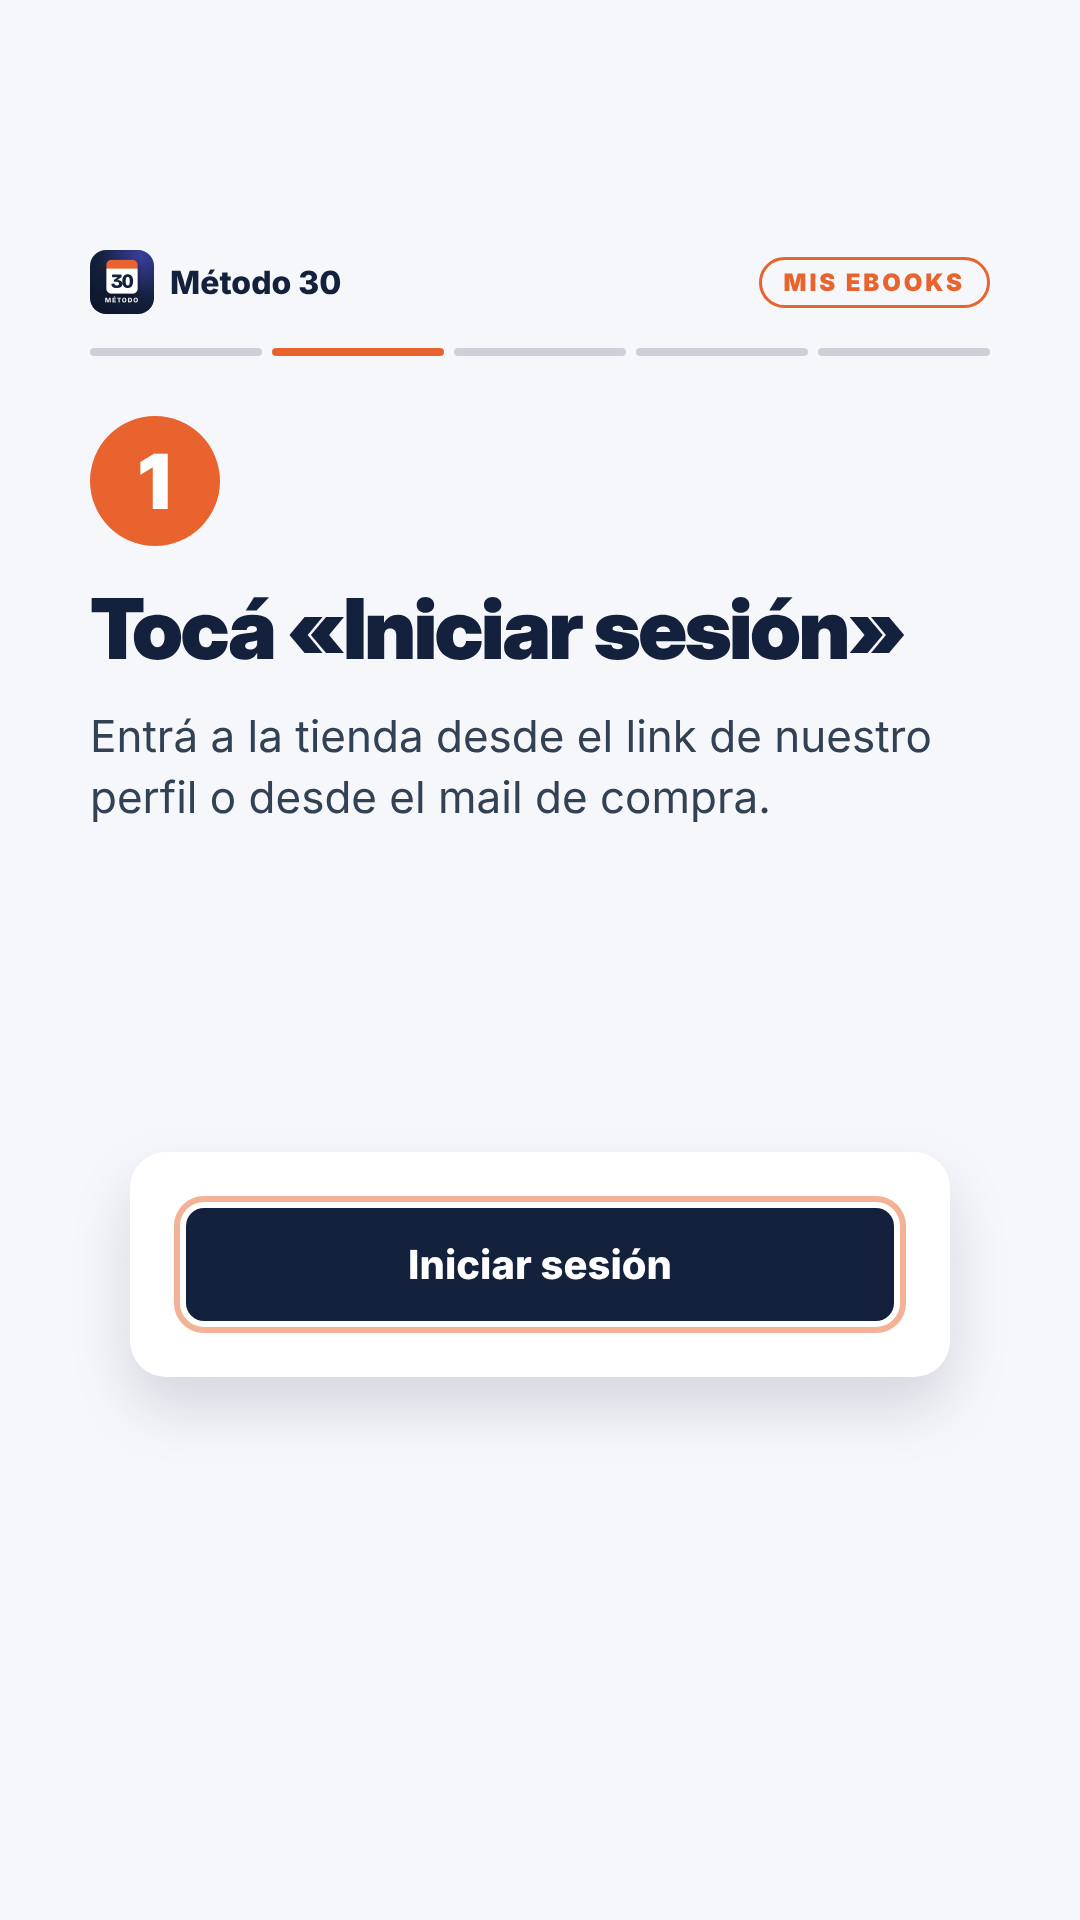
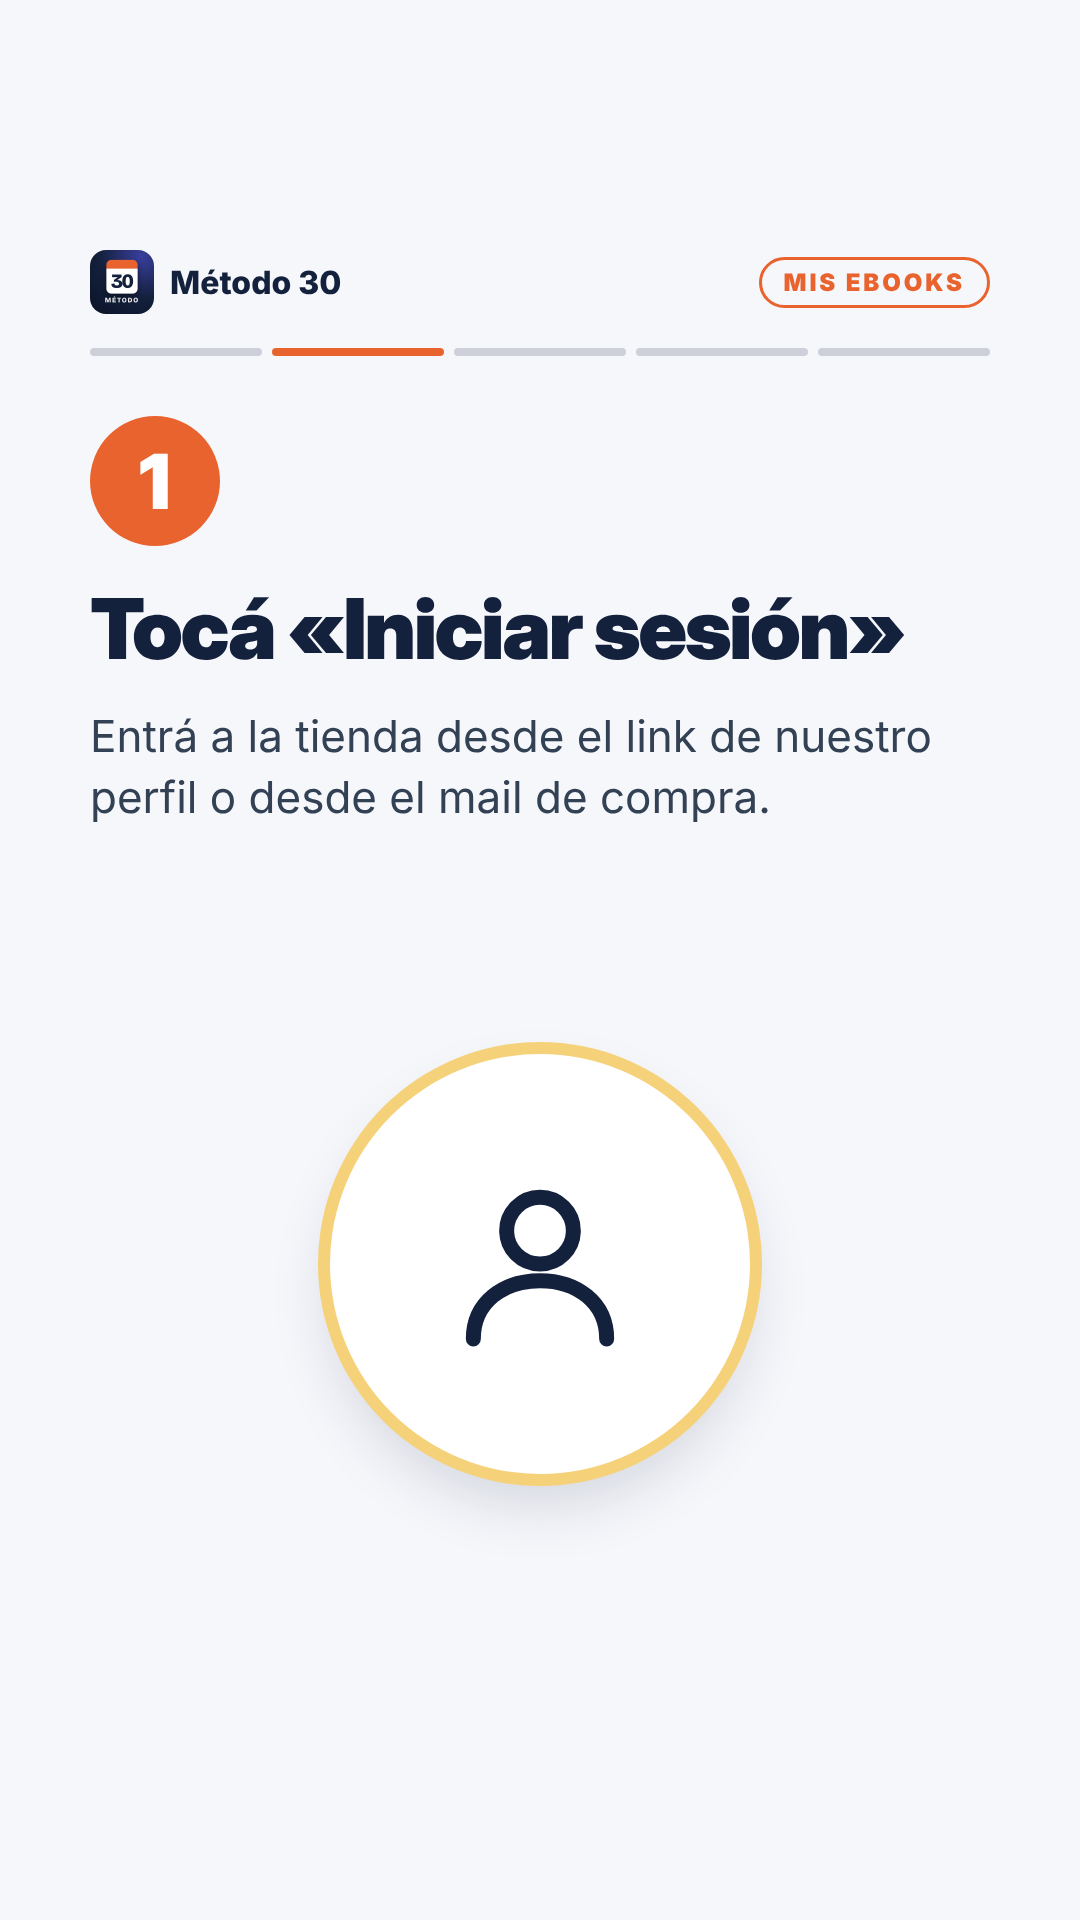
Instagram stories: remove all button-like elements
Claude-Session: https://claude.ai/code/session_01DqVqUeAmWCQGLWKBngAQ89

Changed region(s): [[0.1528, 0.5625, 0.8556, 0.7812], [0.3972, 0.5312, 0.6111, 0.5625], [0.3361, 0.5625, 0.3972, 0.5938]]

diff --git a/instagram/build_historias.py b/instagram/build_historias.py
@@ -52,7 +52,7 @@ add(F, "5", "link", tag="Cómo funciona", title="Empezá hoy",
 F = "2-resenas"
 add(F, "1-pedi-resenas", "ask", tag="Reseñas", title="¿Ya leíste<br><em>Método 30</em>?",
     sub="Contanos cómo te fue con tu búsqueda. Con tu permiso, compartimos tu mensaje acá.",
-    cta="Mandanos un mensaje", note="o escribinos a somosmetodo30@gmail.com")
+    cta="Escribinos por mensaje directo", note="o a somosmetodo30@gmail.com")
 add(F, "2-como-contarnos", "list", tag="Reseñas", title="Contanos<br>tu experiencia",
     items=["Aplicá el plan en tu búsqueda", "Mandanos un mensaje directo contando cómo te fue",
            "Si querés, sumá una captura de tu CV o tu LinkedIn nuevo", "Con tu permiso, lo compartimos en esta destacada"],
@@ -74,10 +74,10 @@ add(F, "1", "cover", tag="Mis ebooks", title="Cómo entrar a<br><em>Mis ebooks</
     pic=f'<img class="phone" src="{CEL}">')
 add(F, "2", "step", tag="Mis ebooks", n="1", title="Tocá «Iniciar sesión»",
     text="Entrá a la tienda desde el link de nuestro perfil o desde el mail de compra.",
-    pic='<div class="ui"><div class="ui-btn">Iniciar sesión</div></div>')
+    pic='<div class="ic"><svg viewBox="0 0 24 24"><circle cx="12" cy="8" r="4"/><path d="M4 21c0-4.4 3.6-7 8-7s8 2.6 8 7"/></svg></div>')
 add(F, "3", "step", tag="Mis ebooks", n="2", title="Poné el mismo mail de la compra",
     text="Tiene que ser el mail que usaste para pagar: así se habilitan tus ebooks.",
-    pic='<div class="ui"><div class="ui-lbl">Correo electrónico</div><div class="ui-in">tunombre@gmail.com</div><div class="ui-btn">Continuar</div></div>')
+    pic='<div class="ic"><svg viewBox="0 0 24 24"><rect x="3" y="5" width="18" height="14" rx="2.5"/><path d="m4 7 8 6 8-6"/></svg></div>')
 add(F, "4", "step", tag="Mis ebooks", n="3", title="Escribí el código de 6 dígitos",
     text="Te llega por mail en segundos. Si no lo ves, revisá la carpeta de spam.",
     pic='<div class="ui"><div class="ui-lbl">Código</div><div class="code">' + "".join(f"<span>{c}</span>" for c in "······") + "</div></div>")
@@ -120,7 +120,7 @@ for i, (q, a) in enumerate(QA, 1):
     add(F, str(i), "qa", tag="Preguntas", q=q, a=a)
 add(F, str(len(QA) + 1), "ask", tag="Preguntas", title="¿Tenés otra<br>pregunta?",
     sub="Mandanos un mensaje y te respondemos en una historia.",
-    cta="Mandanos un mensaje", note="o escribinos a somosmetodo30@gmail.com")
+    cta="Escribinos por mensaje directo", note="o a somosmetodo30@gmail.com")
 
 
 # ---------- RENDER ----------
@@ -130,7 +130,7 @@ PLANE = '<svg viewBox="0 0 24 24"><path d="M21 3 10 14M21 3l-7 18-4-7-7-4 18-7Z"
 
 def cta(label, note, small, icon=ARROW):
     sm = f"<small>{small}</small>" if small else ""
-    return f'<div class="cta"><div class="btn"><span>{label}</span>{icon}</div><p>{note}{sm}</p></div>'
+    return f'<div class="cta"><i></i><b>{label}</b><p>{note}{sm}</p></div>'
 
 
 def head(h, i, total):
@@ -148,7 +148,7 @@ def body(h):
                 f'<p>{h["text"]}</p><div class="pic">{h["pic"]}</div></div>')
     if k == "link":
         return (f'<div class="cover center"><img class="tp" src="{COMBO}"><h1>{h["title"]}</h1><p class="sub">{h["sub"]}</p>' +
-                cta("Ver los ebooks", "Tocá el link de nuestro perfil", LINK) + "</div>")
+                cta("Link en nuestro perfil", "", LINK) + "</div>")
     if k == "ask":
         return (f'<div class="cover center"><img class="av" src="{ICON}"><h1>{h["title"]}</h1><p class="sub">{h["sub"]}</p>'
                 + cta(h["cta"], h["note"], "", icon=PLANE) + "</div>")
@@ -215,15 +215,16 @@ h2{font-size:84px;font-weight:900;line-height:1.02;margin-bottom:34px}
 .ms{font-weight:800;font-size:42px;margin:28px 0}
 .mf{display:flex;align-items:center;gap:20px;border:2px solid #E2E8F0;border-radius:20px;padding:22px;margin-top:16px;font-size:30px}
 .mf span{background:#E8632E;color:#fff;font-weight:800;font-size:24px;border-radius:10px;padding:8px 12px}
+.ic{width:420px;height:420px;border-radius:50%;background:#fff;box-shadow:0 0 0 12px #F5D27A,0 30px 60px rgba(20,33,61,.15);display:flex;align-items:center;justify-content:center}
+.ic svg{width:200px;height:200px;fill:none;stroke:#14213D;stroke-width:1.8;stroke-linecap:round;stroke-linejoin:round}
 .ui{width:820px;background:#fff;border-radius:36px;padding:56px;box-shadow:0 30px 60px rgba(20,33,61,.15)}
 .ui-lbl{font-size:30px;color:#64748B;margin-bottom:14px}
 .ui-in{border:3px solid #14213D;border-radius:18px;padding:28px;font-size:38px;color:#94A3B8;margin-bottom:30px}
-.ui-btn{background:#14213D;color:#fff;border-radius:18px;padding:32px;text-align:center;font-weight:800;font-size:40px;outline:6px solid rgba(232,99,46,.5);outline-offset:6px}
 .code{display:flex;gap:14px}.code span{flex:1;height:130px;border:3px solid #14213D;border-radius:18px;font:900 70px/120px Inter;text-align:center;color:#E8632E}
 .cta{margin-top:80px;width:100%;display:flex;flex-direction:column;align-items:center}
-.btn{display:flex;align-items:center;justify-content:center;gap:24px;width:100%;background:#E8632E;color:#fff;border-radius:999px;padding:44px 50px;font:800 50px/1 Inter;box-shadow:0 24px 50px rgba(232,99,46,.38)}
-.btn svg{width:56px;height:56px;flex:none}
-.cta p{margin-top:36px;font-size:36px;opacity:.8;line-height:1.4}
+.cta i{display:block;width:120px;height:6px;border-radius:6px;background:#E8632E;margin-bottom:44px}
+.cta b{font:900 60px/1.15 "Inter Display";letter-spacing:-.02em;color:#F5D27A}
+.cta p{margin-top:20px;font-size:36px;opacity:.8;line-height:1.4}
 .cta small{display:block;font-size:32px;color:#F5D27A;font-weight:600;margin-top:6px;opacity:1}
 .av{width:180px;height:180px;border-radius:44px;margin-bottom:60px;box-shadow:0 0 0 8px rgba(245,210,122,.6),0 30px 60px rgba(0,0,0,.4)}
 .tp{width:520px;border-radius:30px;margin-bottom:60px;box-shadow:0 30px 70px rgba(0,0,0,.45)}
